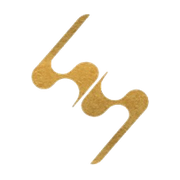
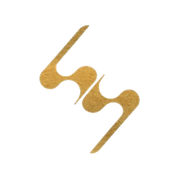
Add files via upload

Changed region(s): [[0.1667, 0.0556, 0.8333, 0.9167], [0.5833, 0.3889, 0.6111, 0.4167]]

diff --git a/index.html b/index.html
@@ -24,8 +24,13 @@
 <meta property="og:site_name" content="揚紳通訊">
 <meta property="og:locale" content="zh_TW">
 <meta name="twitter:card" content="summary_large_image">
[1 lines of base64/hex data omitted]
-<link rel="apple-touch-icon" href="/apple-touch-icon.png">
+<link rel="icon" type="image/png" sizes="32x32" href="/favicon-32x32.png">
+<link rel="icon" type="image/png" sizes="16x16" href="/favicon-16x16.png">
+<link rel="icon" href="/favicon.ico" sizes="any">
[1 lines of base64/hex data omitted]
+<link rel="apple-touch-icon" sizes="180x180" href="/apple-touch-icon.png">
+<link rel="shortcut icon" href="/favicon.ico">
+
 <script type="application/ld+json">
 {
  "@context": "https://schema.org",